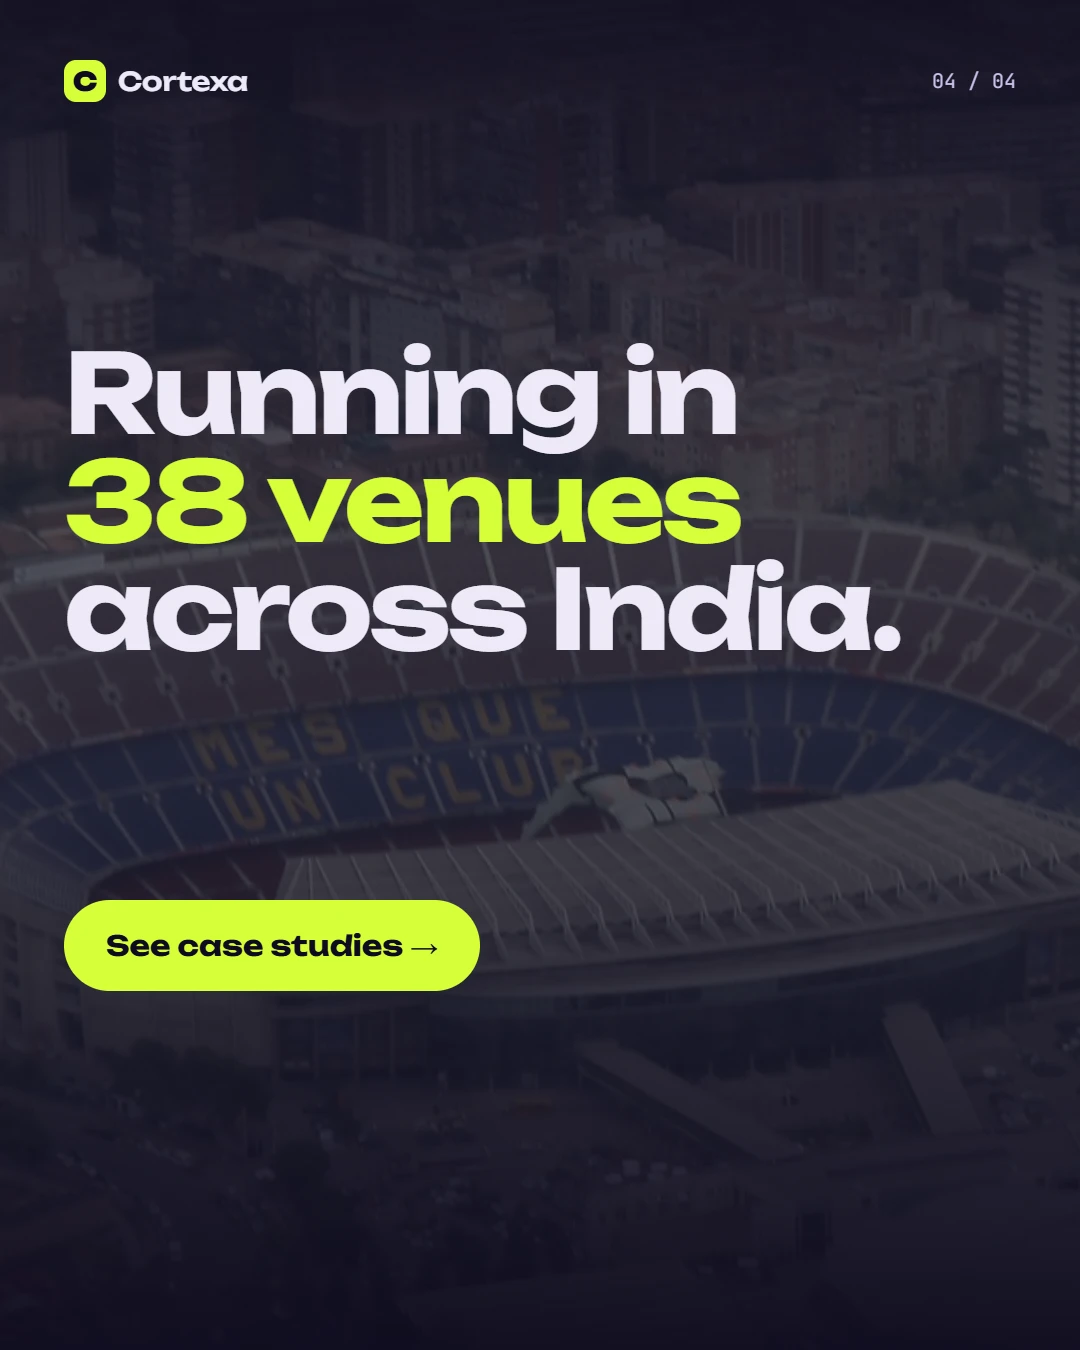
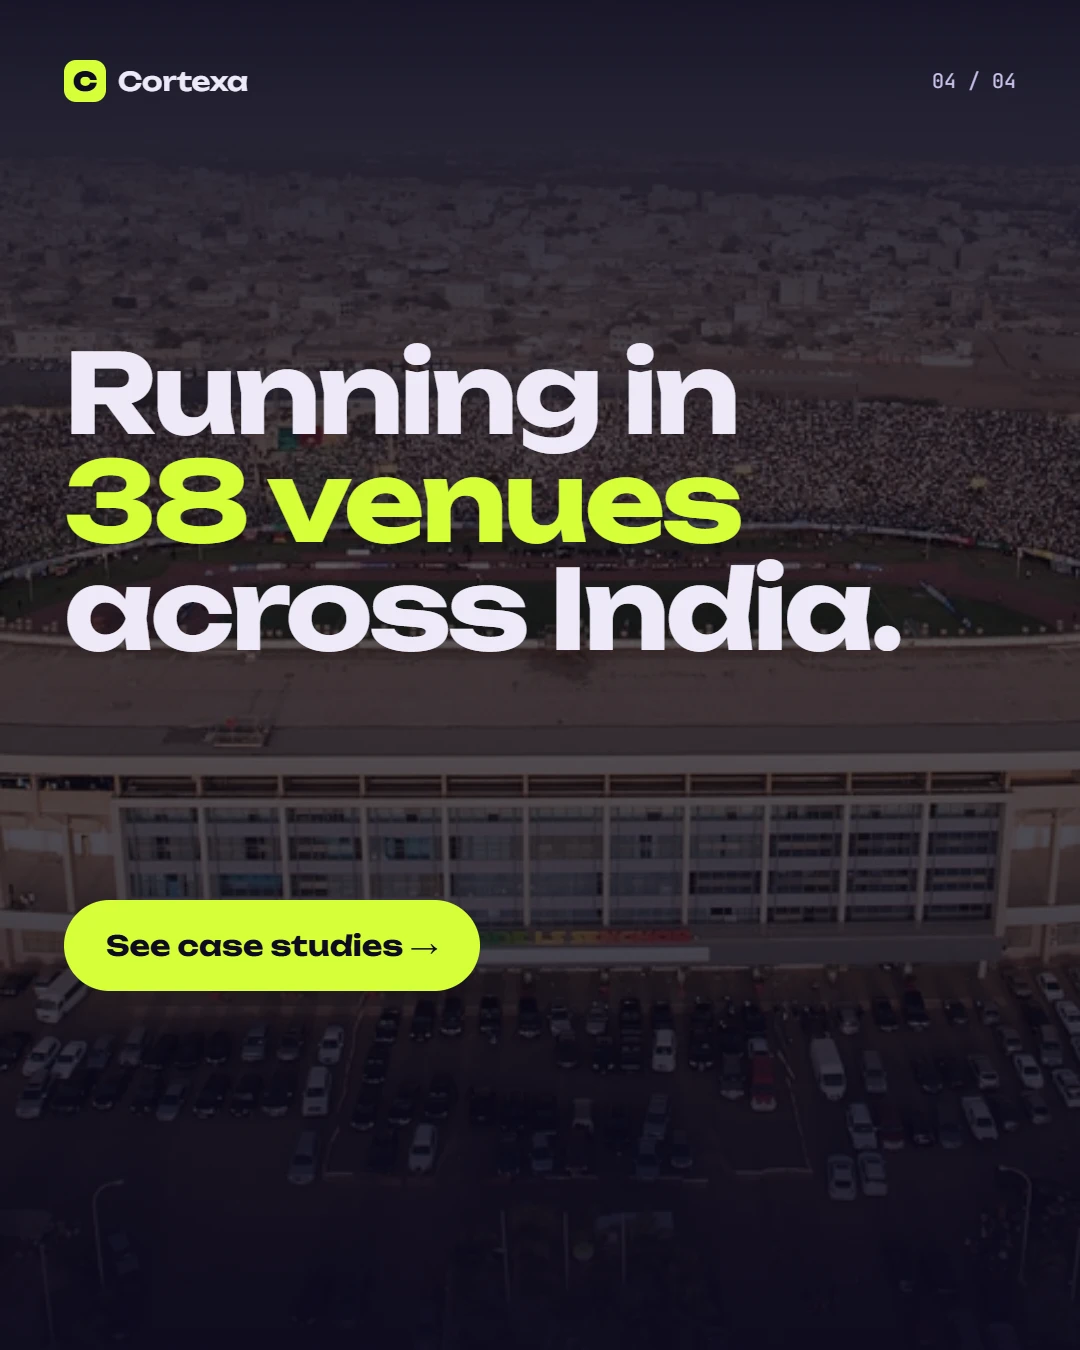
Swap Camp Nou out of the Cortexa venues slide
The "Running in 38 venues across India" slide was set over FC Barcelona's
stadium with the club motto readable in the seats. It now uses an aerial
of a packed stadium with no club markings (CC BY 2.0), and the photo
credits are regenerated to match.

diff --git a/docs/photo-credits.md b/docs/photo-credits.md
@@ -26,7 +26,7 @@ The Graphic Design room's concept campaigns (Aranya Living, Kaelum Springs, Saan
 | Army unveils RDECOM laboratory to improve agile acquisition process | U.S. Army Combat Capabilities Development Command | CC BY 2.0 | https://www.flickr.com/photos/34402227@N03/7447867664 |
 | student_ipad_school - 092 | flickingerbrad | CC BY 2.0 | https://www.flickr.com/photos/56155476@N08/6660040139 |
 | student_ipad_school - 123 | flickingerbrad | CC BY 2.0 | https://www.flickr.com/photos/56155476@N08/6660064021 |
-| The Camp Nou Stadium - Barcelona | Oh-Barcelona.com | CC BY 2.0 | https://www.flickr.com/photos/33831399@N04/3795281086 |
+| Senegal 1 - Cameroon 0 - Stade Léopold Sédar Senghor | Jeff Attaway | CC BY 2.0 | https://www.flickr.com/photos/33398364@N08/5562333854 |
 | Security cameras | futureatlas.com | CC BY 2.0 | https://www.flickr.com/photos/87913776@N00/8362638676 |
 | Security cameras | Soctech | CC BY 2.0 | https://www.flickr.com/photos/28902292@N00/102270156 |
 | glaciers - mountains - Alaska Canada- from Delta jet window | watts_photos | CC BY 2.0 | https://www.flickr.com/photos/126288307@N05/36135788725 |
